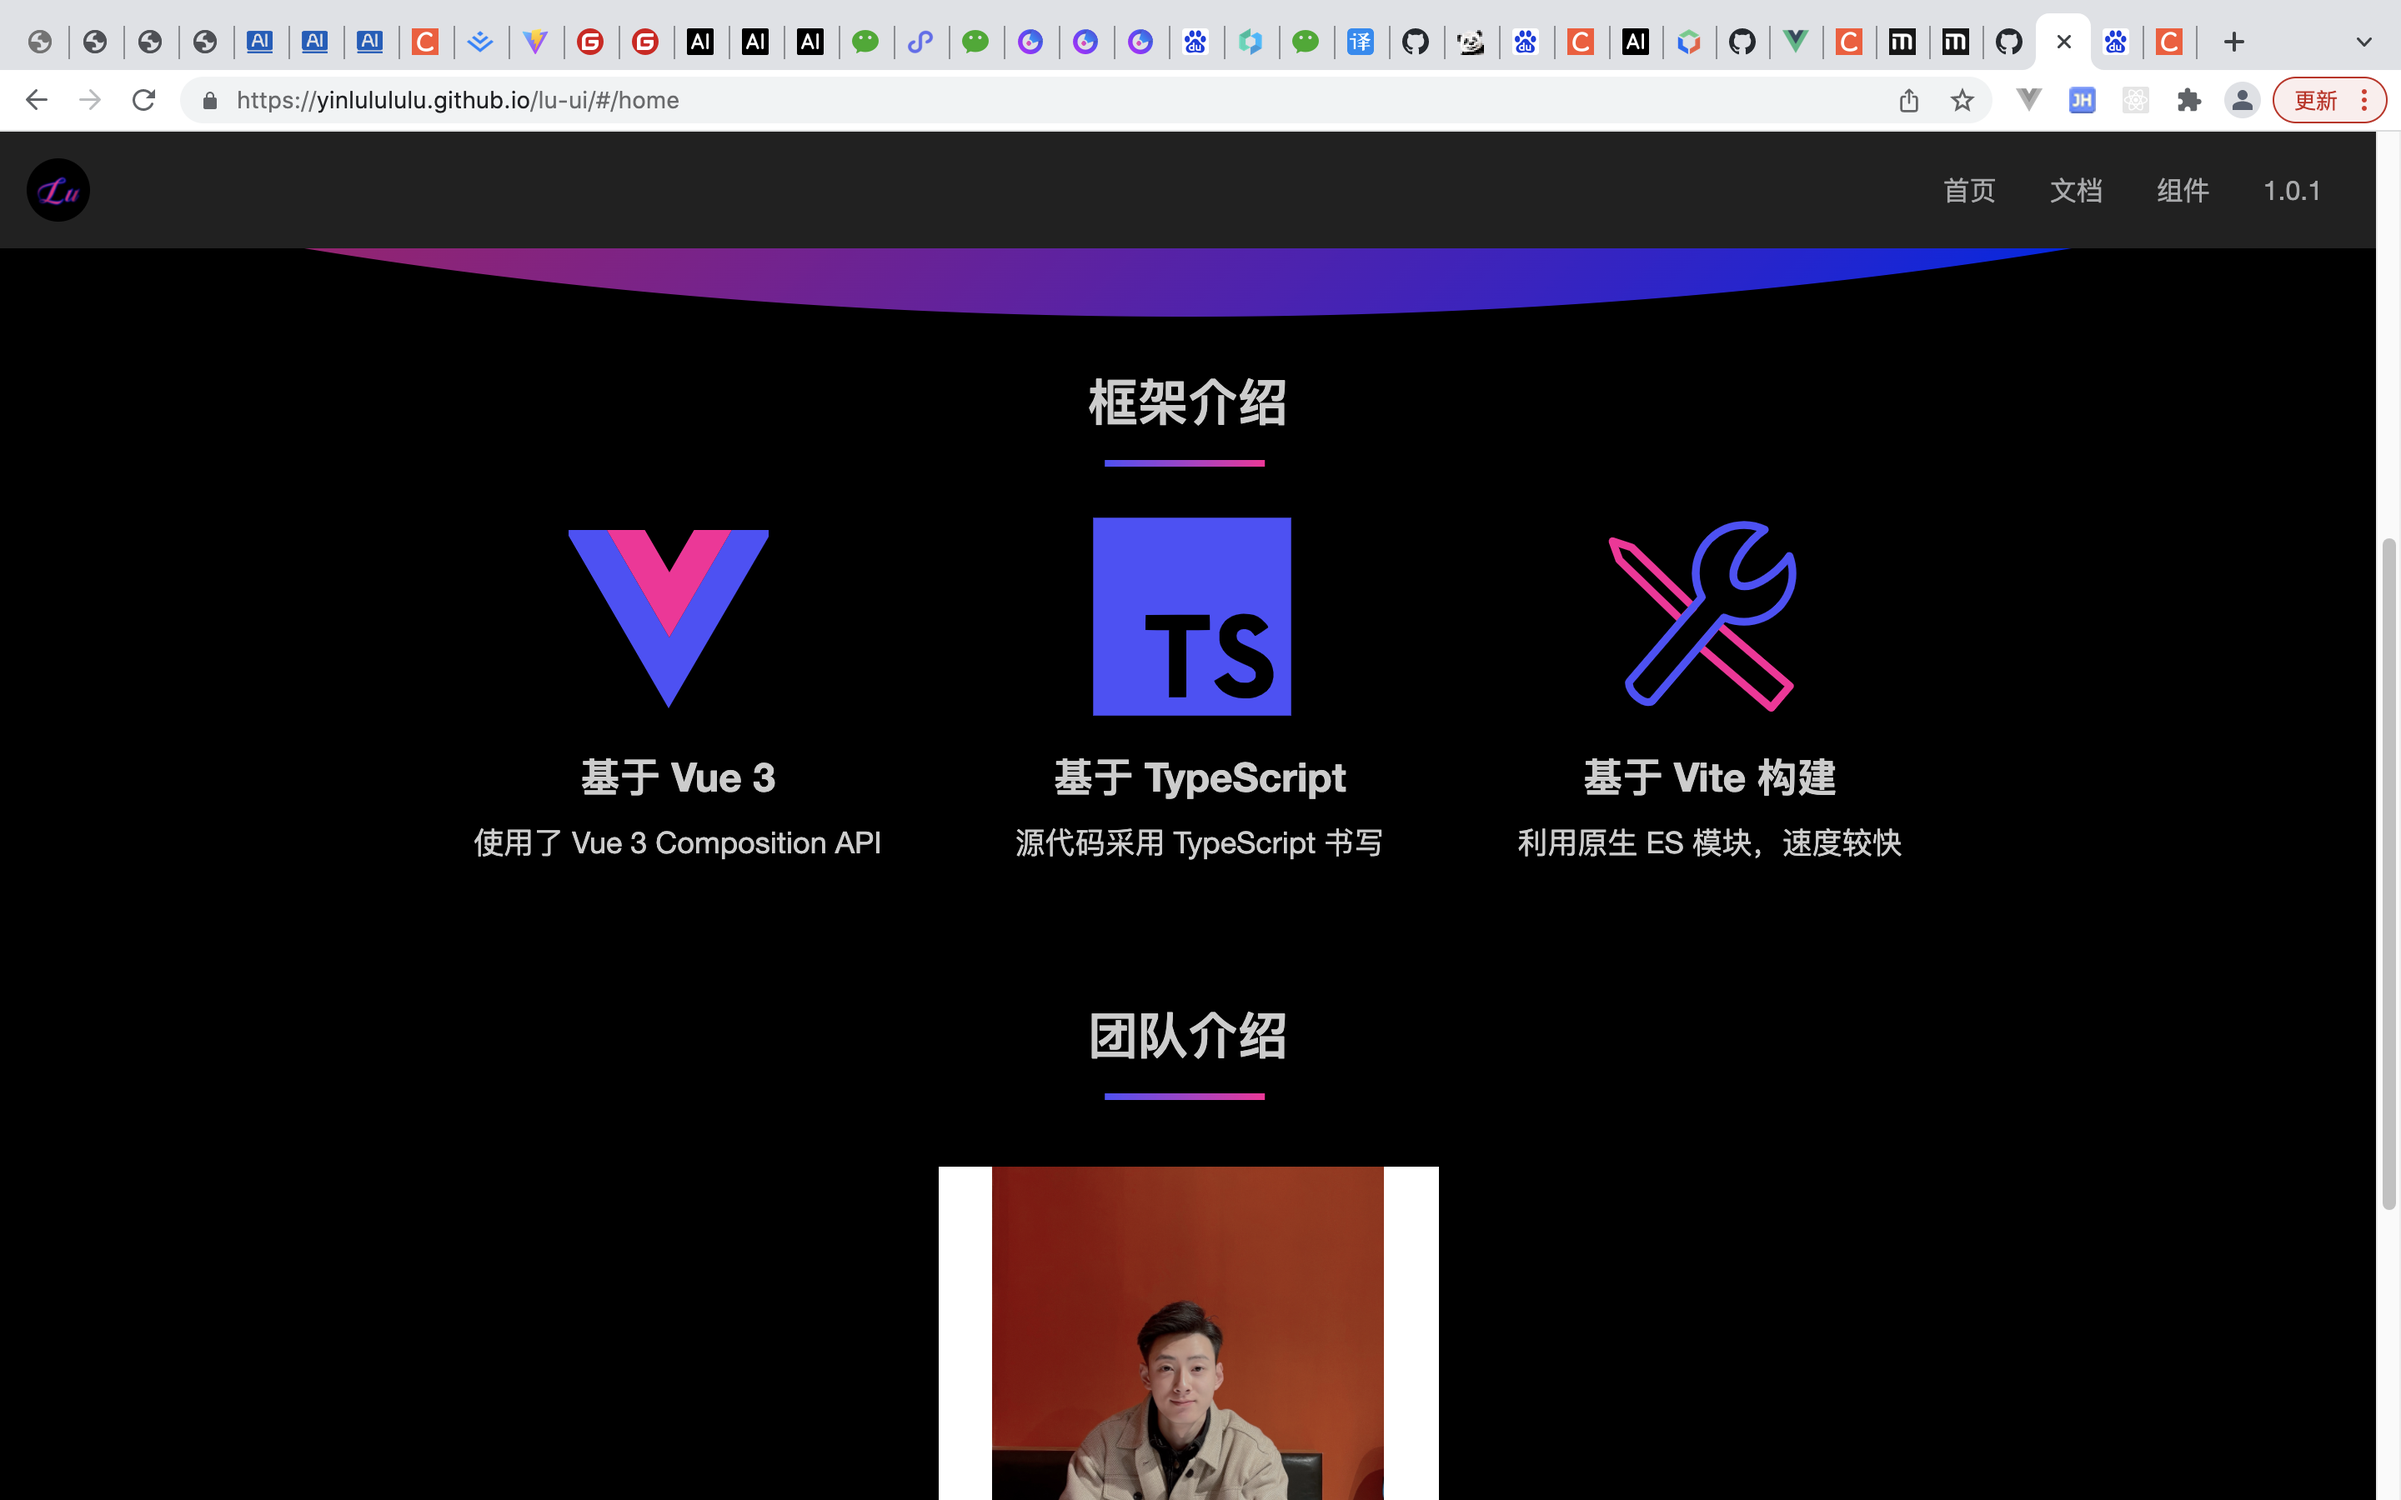
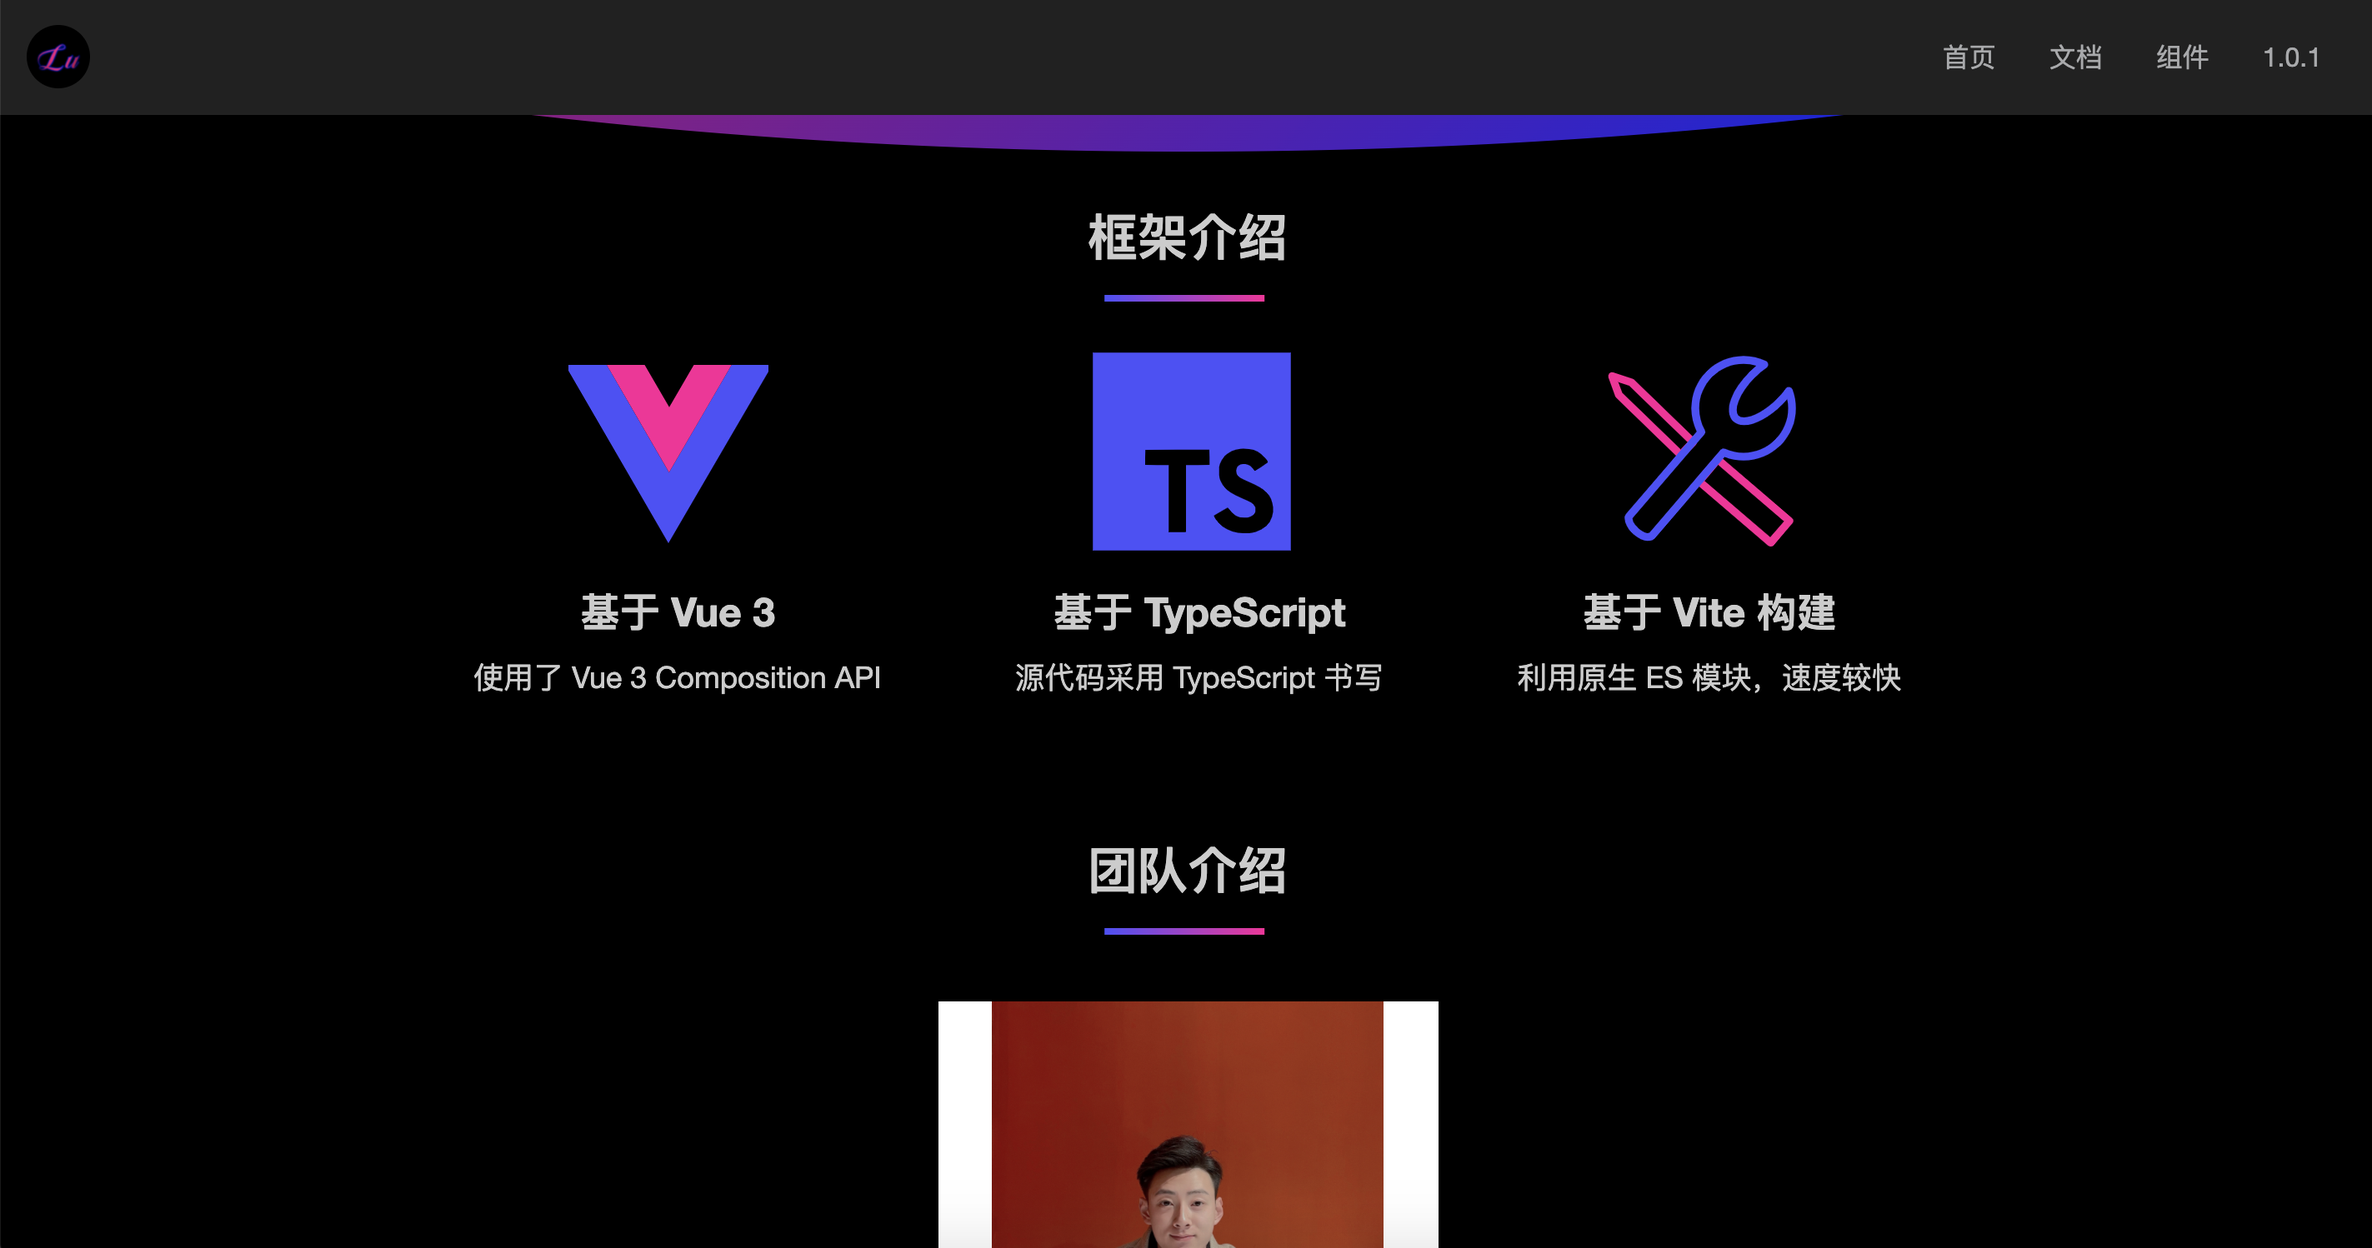
feat:readme

diff --git a/README.md b/README.md
@@ -11,3 +11,6 @@ https://yinlulululu.github.io/lu-ui/#/home
 
 ![image](https://github.com/yinlulululu/lu-ui-dev/blob/main/readme-img/4.png)
 
+![image](https://github.com/yinlulululu/lu-ui-dev/blob/main/readme-img/5.png)
+
+
